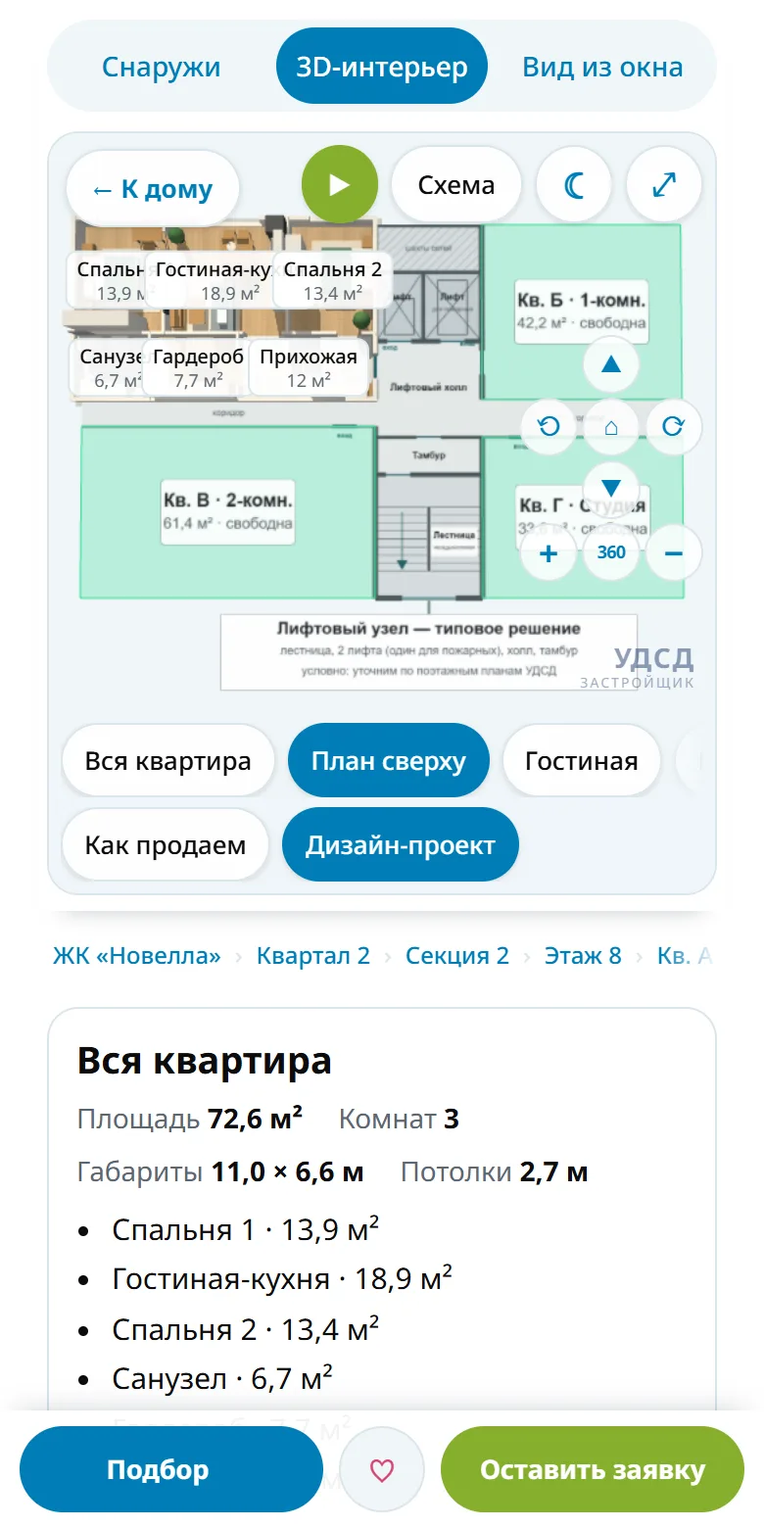
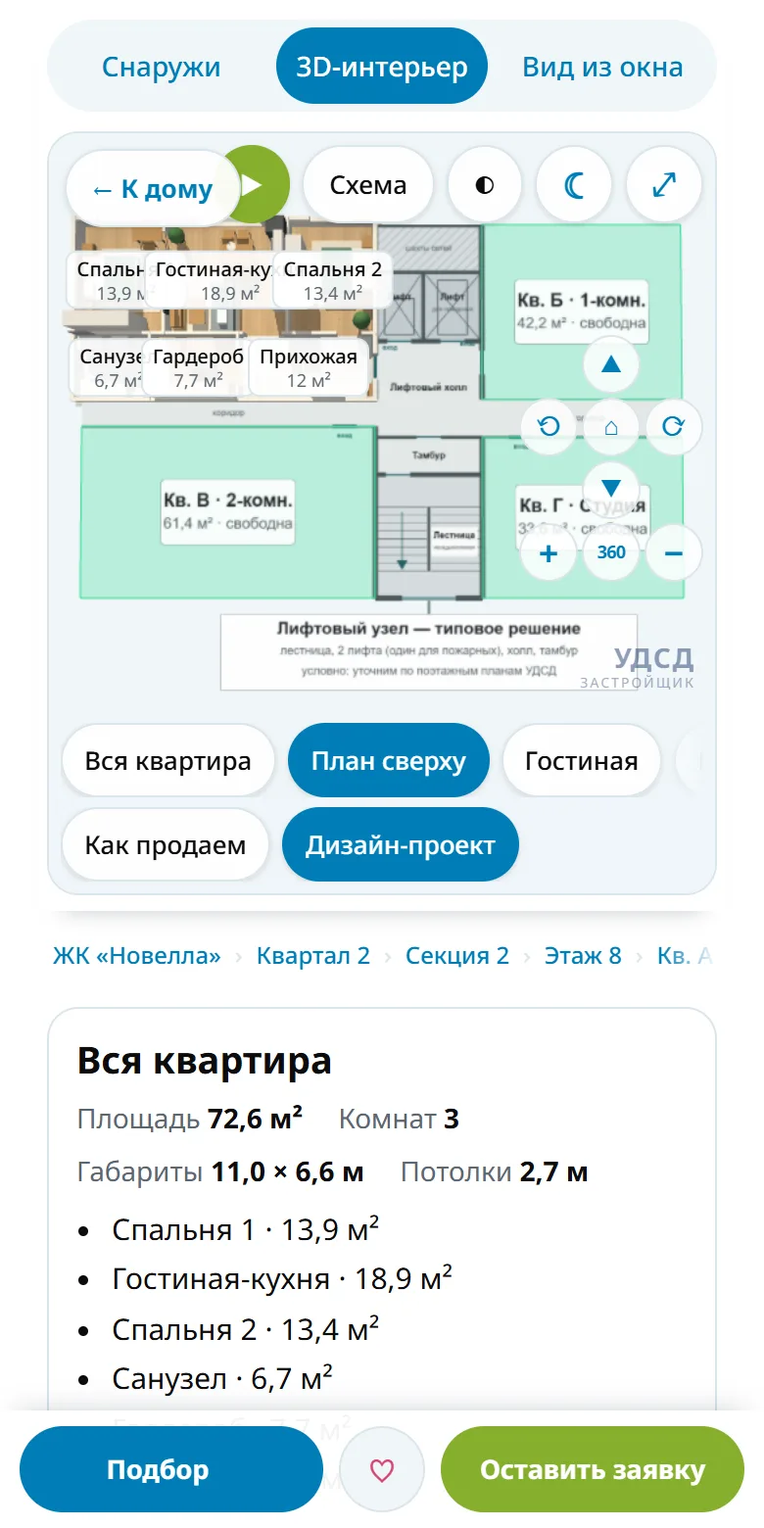
Настройки вида на 3D, разделы панели, плавная экскурсия, «Как продаем» сверху
Окно «Вид» на сцене: дом прозрачный/сплошной, свободные квартиры, наша квартира внутри, ракурс; в интерьере — камера, перегородки, стиль.
Боковая панель по разделам: квартира → «Выбрать квартиру» (изнутри — переход к подбору или к дому) → «Мои квартиры».
Смена режима и шаги экскурсии — с плавным затемнением, пролёты медленнее, шаг дольше; «Как продаем» — вся квартира сверху в предчистовой.

Changed region(s): [[0.2769, 0.0923, 0.5231, 0.1538], [0.5538, 0.0923, 0.6462, 0.1538]]

diff --git a/demo/index.html b/demo/index.html
@@ -301,7 +301,31 @@ body.pinned:not(.full) .stack{display:none}
   .compass{width:34px;height:34px}
   body.pinned:not(.full) .navpad{display:none}
 }
+/* smooth change of mode: the stage fades out and back in */
+.veil{position:absolute;inset:0;z-index:1;background:var(--stage);opacity:0;pointer-events:none;transition:opacity .45s ease}
+.veil.on{opacity:1}
+/* view settings panel on the stage */
+.viewbtn[aria-expanded="true"]{background:var(--acc);border-color:var(--acc);color:#fff}
+.vpanel{position:absolute;right:8px;top:56px;z-index:6;width:min(320px,calc(100% - 16px));max-height:calc(100% - var(--dockh) - 70px);overflow:auto;display:flex;flex-direction:column;gap:12px;background:color-mix(in srgb,var(--surf) 97%,transparent);border-radius:16px;padding:12px 14px;box-shadow:0 8px 26px rgba(0,0,0,.2)}
+.vpanel[hidden]{display:none}
+.vp-head{display:flex;align-items:center;justify-content:space-between}
+.vp-head b{font:700 16px var(--f-display)}
+.vp-head .icobtn{width:34px;height:34px;font-size:15px}
+.vgroup{display:flex;flex-direction:column;gap:12px}
+.vgroup[hidden]{display:none}
+.vpanel .chips{flex-wrap:wrap;overflow:visible;-webkit-mask-image:none;mask-image:none}
+.vpanel .chip{min-height:38px;padding:7px 12px;font-size:13.5px}
+@media (max-width:640px){.vpanel{left:6px;right:6px;width:auto;top:52px;padding:10px 12px;gap:10px}.vgroup{gap:9px}.vpanel .chip{min-height:34px;padding:5px 11px;font-size:13px}.vp-head b{font-size:15px}}
+/* side panel sections */
+.sect{display:flex;flex-direction:column;gap:12px;border-top:1px solid var(--line);padding-top:14px}
+.sect[hidden]{display:none}
+.sh{margin:0;font:700 13px var(--f-body);letter-spacing:.06em;text-transform:uppercase;color:var(--mut)}
+.other{background:var(--chip);border-radius:14px;padding:12px 14px;display:flex;flex-direction:column;gap:10px}
+.other p{margin:0;font-size:14px}
+.side[data-mode="int"] .pick,.side[data-mode="win"] .pick{display:none}
 /* guided tour */
+.tour.anim .tour-t,.tour.anim p{animation:tin .6s ease both}
+@keyframes tin{from{opacity:0;transform:translateY(6px)}to{opacity:1;transform:none}}
 .tourbtn{background:var(--green);border-color:var(--green);color:#fff;font-weight:700}
 @media (min-width:641px){.badge{max-width:calc(100% - 400px);white-space:nowrap;overflow:hidden;text-overflow:ellipsis}}
 @media (min-width:641px) and (max-width:1399px){.tourbtn .lg{display:none}}   /* the tool row would reach the location badge */
@@ -414,6 +438,22 @@ body.touring #dock,body.touring .hint,body.touring .badge,body.touring #tourBtn,
 
   <div class="stage" id="stage">
     <canvas id="cv" aria-label="3D-модель квартиры"></canvas>
+    <div class="veil" id="veil" aria-hidden="true"></div>
+    <!-- view settings right on the 3D: grouped by what they change, only those of the current mode -->
+    <div class="vpanel" id="vpanel" hidden role="dialog" aria-label="Настройки вида">
+      <div class="vp-head"><b>Настройки вида</b><button type="button" class="icobtn" id="vpClose" aria-label="Закрыть">✕</button></div>
+      <div class="vgroup" data-vm="ext">
+        <div class="row"><div class="lab">Выбранный дом</div><div class="chips" id="rHouse"></div></div>
+        <div class="row"><div class="lab">Свободные квартиры</div><div class="chips" id="rLayer"></div></div>
+        <div class="row" id="rowInner"><div class="lab">Наша квартира</div><div class="chips" id="rInner"></div></div>
+        <div class="row"><div class="lab">Ракурс камеры</div><div class="chips" id="rExtView"></div></div>
+      </div>
+      <div class="vgroup" data-vm="int">
+        <div class="row"><div class="lab">Камера</div><div class="chips" id="rCam"></div></div>
+        <div class="row" id="rowSee"><div class="lab">Перегородки</div><div class="chips" id="rSee"></div></div>
+        <div class="row" id="rowStyle"><div class="lab">Стиль дизайн-проекта</div><div class="chips" id="rStyle"></div></div>
+      </div>
+    </div>
     <div class="loader" id="loader" role="status"><i></i>Загружаем 3D-квартал…</div>
     <div class="logo" aria-label="УДСД">УДСД<small>ЗАСТРОЙЩИК</small></div>
     <div id="labels"></div>
@@ -424,6 +464,7 @@ body.touring #dock,body.touring .hint,body.touring .badge,body.touring #tourBtn,
       <button type="button" class="planbtn tourbtn" id="tourBtn" aria-label="Экскурсия по «Новелле»">▶<span class="lg"> Экскурсия</span></button>
       <button type="button" class="planbtn" id="planBtn"><span class="lg">Схема квартиры</span><span class="sm">Схема</span></button>
       <div class="chips tchips" id="rTime" role="group" aria-label="Освещение" hidden></div>
+      <button type="button" class="planbtn viewbtn" id="viewBtn" aria-expanded="false" aria-controls="vpanel" title="Настройки вида">◐<span class="lg"> Вид</span></button>
       <button type="button" class="icobtn" id="timeBtn" aria-label="Включить вечер" title="День / вечер">☾</button>
       <button type="button" class="icobtn" id="fullBtn" aria-label="Во весь экран" aria-pressed="false">⤢</button>
     </div>
@@ -481,6 +522,18 @@ body.touring #dock,body.touring .hint,body.touring .badge,body.touring #tourBtn,
   <nav class="crumbs chips" id="crumbs" aria-label="Где вы"></nav>
   <div class="card" id="card" aria-live="polite"></div>
 
+  <!-- choosing another apartment is its own section, apart from looking at this one -->
+  <section class="sect" id="sChoose" aria-labelledby="hChoose">
+  <h3 class="sh" id="hChoose">Выбрать квартиру</h3>
+  <div class="other" id="chooseOther" hidden>
+    <p>Сейчас вы смотрите квартиру А изнутри. Другие квартиры — на доме снаружи или в подборе.</p>
+    <div class="xbtns"><button type="button" class="chip pick-show" id="oPick">Подбор квартиры</button><button type="button" class="chip" id="oHouse">Выбрать на доме</button></div>
+  </div>
+  <div class="panel" id="pExt" hidden>
+    <div hidden><div class="chips" id="rAct"></div></div>
+    <div class="row"><div class="lab">Корпус</div><select id="selSec" class="sel" aria-label="Корпус"></select></div>
+    <div class="legend"><span><i class="st" style="background:#3ddc97"></i>свободна</span><span><i class="st" style="background:#f2b04a"></i>бронь</span><span><i class="st" style="background:#6b7780"></i>продана</span><span id="dataLab">примерные данные</span></div>
+  </div>
   <!-- apartment finder: on a computer always open in the side panel, on a phone a sheet that slides up from the bottom -->
   <section class="pick" id="pick" aria-label="Подбор квартиры">
     <div class="pick-head"><b>Подбор квартиры</b><span class="pick-count" id="pickCount"></span><button type="button" class="icobtn pick-close" id="pickClose" aria-label="Закрыть подбор">✕</button></div>
@@ -491,28 +544,13 @@ body.touring #dock,body.touring .hint,body.touring .badge,body.touring #tourBtn,
     <div class="pick-list" id="pickList"></div>
     <div class="pick-foot"><button type="button" class="chip" id="pickReset">Сбросить</button><button type="button" class="chip pick-show" id="pickShow">Показать на 3D</button></div>
   </section>
+  </section>
 
-  <div class="panel" id="pInt">
-    <div class="row"><div class="lab">Камера</div><div class="chips" id="rCam"></div></div>
-    <div class="row" id="rowSee"><div class="lab">Перегородки</div><div class="chips" id="rSee"></div></div>
-    <div class="row" id="rowStyle"><div class="lab">Стиль дизайн-проекта</div><div class="chips" id="rStyle"></div></div>
-  </div>
-  <div class="panel" id="pExt" hidden>
-    <div class="row"><div class="lab">Подробнее</div><div class="chips" id="rAct"></div></div>
-    <div class="row"><div class="lab">Корпус</div><select id="selSec" class="sel" aria-label="Корпус"></select></div>
-    <div class="legend"><span><i class="st" style="background:#3ddc97"></i>свободна</span><span><i class="st" style="background:#f2b04a"></i>бронь</span><span><i class="st" style="background:#6b7780"></i>продана</span><span id="dataLab">примерные данные</span></div>
-    <div class="row"><div class="lab">Ракурс</div><div class="chips" id="rExtView"></div></div>
-    <!-- rarely needed: folded on phones (opened on wide screens at start) -->
-    <details class="more" id="moreExt" open>
-      <summary>Ещё настройки</summary>
-      <div class="row"><div class="lab">Подсветка корпусов</div><div class="chips" id="rLayer"></div></div>
-      <div class="row"><div class="lab">Дом</div><div class="chips" id="rHouse"></div></div>
-      <div class="row" id="rowInner"><div class="lab">Квартира</div><div class="chips" id="rInner"></div></div>
-    </details>
-  </div>
-
+  <section class="sect" id="sMine" aria-labelledby="hMine" hidden>
+  <h3 class="sh" id="hMine">Мои квартиры</h3>
   <div class="row" id="rowFav" hidden><div class="lab">Избранное</div><div class="chips" id="rFav"></div></div>
   <div class="row" id="rowRecent" hidden><div class="lab">Недавно смотрели</div><div class="chips" id="rRecent"></div></div>
+  </section>
 
   <p class="note" id="note"></p>
   </aside>
@@ -1530,7 +1568,7 @@ body.touring #dock,body.touring .hint,body.touring .badge,body.touring #tourBtn,
     controls.minDistance = 0; controls.maxDistance = 100; controls.maxPolarAngle = Math.PI;
     const to = { pos: new THREE.Vector3(...pos), tgt: new THREE.Vector3(...tgt) };
     if (instant) { camera.position.copy(to.pos); controls.target.copy(to.tgt); limits(); }
-    else anim = { t0: performance.now(), dur: document.body.classList.contains('touring') ? 1800 : 900, p0: camera.position.clone(), g0: controls.target.clone(), to: to };
+    else anim = { t0: performance.now(), dur: document.body.classList.contains('touring') ? 2800 : 1100, p0: camera.position.clone(), g0: controls.target.clone(), to: to };
   }
   function ease(t) { return t < 0.5 ? 4 * t * t * t : 1 - Math.pow(-2 * t + 2, 3) / 2; }
 
@@ -1674,7 +1712,8 @@ body.touring #dock,body.touring .hint,body.touring .badge,body.touring #tourBtn,
     sync.push(() => b.setAttribute('aria-pressed', test() ? 'true' : 'false')); return b;
   }
   const chips = {};
-  chip($('rFinish'), 'Как продаем (предчистовая)', () => S.finish === 'bare', () => { S.finish = 'bare'; refresh(); }, { short: 'Как продаем' });
+  // «Как продаем» shows the whole flat from above in pre-finish (as it is handed over), with a smooth flight from wherever the camera is
+  chip($('rFinish'), 'Как продаем (предчистовая)', () => S.finish === 'bare', () => { S.finish = 'bare'; if (S.mode === 'int' && (S.cam === 'walk' || S.view !== 'overview')) { S.cam = 'top'; S.view = 'overview'; enterInterior(false); } refresh(); }, { short: 'Как продаем' });
   chip($('rFinish'), 'Дизайн-проект', () => S.finish === 'design', () => { S.finish = 'design'; refresh(); });
   Object.keys(VIEWS).forEach((k) => chip($('rView'), VIEWS[k].label, () => S.view === k, () => { S.view = k; if (VIEWS[k].out) S.cam = 'top'; enterInterior(false); refresh(true); }));
   chip($('rCam'), 'Сверху, стены срезаны', () => S.cam === 'top', () => { S.cam = 'top'; enterInterior(false); refresh(true); }, { short: 'Сверху' });
@@ -1912,7 +1951,7 @@ body.touring #dock,body.touring .hint,body.touring .badge,body.touring #tourBtn,
   }
   const openPick = () => { document.body.classList.add('picking'); $('scrim').hidden = false; };
   const closePick = () => { document.body.classList.remove('picking'); $('scrim').hidden = true; };
-  $('mPick').addEventListener('click', openPick); $('pickClose').addEventListener('click', closePick); $('scrim').addEventListener('click', closePick);
+  $('mPick').addEventListener('click', () => (S.mode === 'ext' ? openPick() : chooseOther(true))); $('pickClose').addEventListener('click', closePick); $('scrim').addEventListener('click', closePick);
 
   // where you are: ЖК › квартал › секция › этаж › квартира (› интерьер / вид из окна); each level flies the camera there
   function renderCrumbs() {
@@ -2125,7 +2164,24 @@ body.touring #dock,body.touring .hint,body.touring .badge,body.touring #tourBtn,
     }
     const cur = stackEl.querySelector('[aria-pressed="true"]'); if (cur) cur.scrollIntoView({ block: 'nearest' });
   }
-  $('backHouse').addEventListener('click', () => { S.sec = towerSec.i; S.apt = 'a'; S.floor = 8; S.extView = 'floor'; S.aptOpen = true; S.inner = false; enterExt(false); refresh(true); });
+  $('backHouse').addEventListener('click', () => swap(() => { S.sec = towerSec.i; S.apt = 'a'; S.floor = 8; S.extView = 'house'; S.aptOpen = true; S.inner = false; enterExt(true); refresh(true); }));
+  // a change of mode fades the stage out and back in, so the jump from outside to inside reads as one move
+  let swapT = 0;
+  function swap(fn, ms) {
+    const v = $('veil'); clearTimeout(swapT); v.classList.add('on');
+    swapT = setTimeout(() => { fn(); wake(); requestAnimationFrame(() => requestAnimationFrame(() => v.classList.remove('on'))); }, ms || 380);
+  }
+  // view settings on the 3D
+  function setVP(on) { const p = $('vpanel'); p.hidden = !on; $('viewBtn').setAttribute('aria-expanded', on ? 'true' : 'false'); }
+  $('viewBtn').addEventListener('click', () => setVP($('vpanel').hidden));
+  $('vpClose').addEventListener('click', () => setVP(false));
+  cv.addEventListener('pointerdown', () => setVP(false), { passive: true });
+  document.addEventListener('keydown', (e) => { if (e.key === 'Escape') setVP(false); });
+  // looking at a flat inside: choosing another one goes outside, to the building or to the finder
+  function chooseOther(pick) {
+    swap(() => { S.sec = towerSec.i; S.apt = 'a'; S.floor = 8; S.extView = 'house'; S.aptOpen = false; S.inner = false; enterExt(true); refresh(true); if (pick) { openPick(); if (!narrow()) $('pick').scrollIntoView({ behavior: 'smooth', block: 'start' }); } });
+  }
+  $('oPick').addEventListener('click', () => chooseOther(true)); $('oHouse').addEventListener('click', () => chooseOther(false));
   sync.push(() => { $('backHouse').hidden = S.mode === 'ext'; renderStack(); });
 
   computeMatches();
@@ -2158,8 +2214,8 @@ body.touring #dock,body.touring .hint,body.touring .badge,body.touring #tourBtn,
   }
   addEventListener('scroll', checkPin, { passive: true }); addEventListener('resize', checkPin);
   document.addEventListener('keydown', (e) => { if (e.key === 'Escape' && document.body.classList.contains('full') && sheetEl.hidden) setFull(false); });
-  $('tInt').addEventListener('click', () => { if (S.mode === 'ext' && !isOwn()) { devDlg('int'); return; } if (S.mode !== 'int') { enterInterior(true); refresh(true); } });
-  $('tWin').addEventListener('click', () => { if (S.mode === 'ext' && !isOwn()) { devDlg('win'); return; } if (S.mode !== 'win') { enterWindow(); refresh(true); } });
+  $('tInt').addEventListener('click', () => { if (S.mode === 'ext' && !isOwn()) { devDlg('int'); return; } if (S.mode !== 'int') swap(() => { enterInterior(true); refresh(true); }); });
+  $('tWin').addEventListener('click', () => { if (S.mode === 'ext' && !isOwn()) { devDlg('win'); return; } if (S.mode !== 'win') swap(() => { enterWindow(); refresh(true); }); });
   // 3D inside and the window view exist only for apartment A (quarter 2, section 2, floor 8): for any other flat say so and offer A
   function devDlg(mode) {
     const t = TYPES[S.apt], sec = SECTIONS[S.sec];
@@ -2171,7 +2227,8 @@ body.touring #dock,body.touring .hint,body.touring .badge,body.touring #tourBtn,
   /* ---------- guided tour: city → complex → finder → our building → floor → interior → pre-finish → window, day and evening ----------
      (after the stadium demo by By Omid: one continuous journey with camera flights, pause / steps / exit; touching the 3D pauses it) */
   const tourOwn = () => { S.sec = towerSec.i; S.apt = 'a'; S.floor = 8; S.inner = false; };
-  const tourInt = (view, cam, finish) => { tourOwn(); S.view = view; S.cam = cam; S.finish = finish; S.time = 'day'; placeOutside(); enterInterior(true); refresh(true); };
+  // inside to inside the camera flies; coming from outside the move happens under the fade
+  const tourInt = (view, cam, finish) => { const inInt = S.mode === 'int'; tourOwn(); S.view = view; S.cam = cam; S.finish = finish; S.time = 'day'; placeOutside(); enterInterior(!inInt); refresh(true); };
   const tourNoFilter = () => { if (fltOn()) { FLT.rooms.clear(); FLT.price = Infinity; FLT.floor = 'any'; FLT.free = true; fPrice.value = pMax; $('fFree').checked = true; computeMatches(); cellsKey = ''; } };
   const TOUR = [
     { t: 'Новый Уренгой', d: '«Новелла» — в северной части города, мкр. Уютный. Микрорайоны, реки и дороги — по OpenStreetMap.', go: () => { tourNoFilter(); tourOwn(); S.time = 'day'; goExt('city'); } },
@@ -2180,15 +2237,16 @@ body.touring #dock,body.touring .hint,body.touring .badge,body.touring #tourBtn,
     { t: 'Подбор', d: 'Выбраны 3-комнатные: подходящие корпуса подсвечены, на каждом — сколько подходит.', go: () => { FLT.rooms = new Set([3]); onFilter(); goExt('all'); } },
     { t: 'Ваш дом', d: 'Квартал 2, секция 2 целиком. Слева — этажи: точки показывают, сколько квартир свободно на каждом.', go: () => { tourNoFilter(); tourOwn(); S.aptOpen = false; goExt('house'); } },
     { t: 'Этаж в разрезе', d: 'Дом срезан по 8 этажу: квартиры по статусам, лифты и лестница, у нашей А видна мебель. Нажмите на квартиру — откроется карточка.', go: () => { tourOwn(); S.aptOpen = false; goExt('floor'); } },
-    { t: 'План этажа', d: 'Соседи по площадке со статусами, лифты, холл и лестница (типовое решение до планов застройщика).', go: () => tourInt('top', 'top', 'design') },
-    { t: '3D-интерьер', d: 'Вся квартира сверху, стены срезаны: дизайн-проект и площадь каждой комнаты.', go: () => tourInt('overview', 'top', 'design') },
-    { t: '«Как продаем»', d: 'Предчистовая отделка по стандарту УДСД — вид с уровня глаз из гостиной.', go: () => tourInt('living', 'walk', 'bare') },
-    { t: 'Вид из окна', d: 'Из гостиной с 8 этажа: что видно днём.', go: () => { tourOwn(); S.finish = 'design'; S.win = 'living'; S.time = 'day'; enterWindow(); refresh(true); } },
-    { t: 'Вечером', d: 'В окнах соседних домов горит свет, во дворах — фонари.', go: () => { S.time = 'eve'; refresh(); } },
-    { t: 'Выбор за вами', d: 'Сердечко — в избранное, «Оставить заявку» — менеджер перезвонит. Дальше управляйте сами.', go: () => { S.time = 'day'; tourOwn(); goExt('yard'); } }
+    { t: 'План этажа', m: 'int', d: 'Соседи по площадке со статусами, лифты, холл и лестница (типовое решение до планов застройщика).', go: () => tourInt('top', 'top', 'design') },
+    { t: '3D-интерьер', m: 'int', d: 'Вся квартира сверху, стены срезаны: дизайн-проект и площадь каждой комнаты.', go: () => tourInt('overview', 'top', 'design') },
+    { t: '«Как продаем»', m: 'int', fade: true, d: 'Та же квартира сверху в предчистовой отделке по стандарту УДСД: стяжка, стены под покраску, окна и двери, без мебели.', go: () => tourInt('overview', 'top', 'bare') },
+    { t: 'Вид из окна', m: 'win', d: 'Из гостиной с 8 этажа: что видно днём.', go: () => { tourOwn(); S.finish = 'design'; S.win = 'living'; S.time = 'day'; enterWindow(); refresh(true); } },
+    { t: 'Вечером', m: 'win', fade: true, d: 'В окнах соседних домов горит свет, во дворах — фонари.', go: () => { S.time = 'eve'; refresh(); } },
+    { t: 'Выбор за вами', m: 'ext', d: 'Сердечко — в избранное, «Оставить заявку» — менеджер перезвонит. Дальше управляйте сами.', go: () => { S.time = 'day'; tourOwn(); S.aptOpen = true; goExt('house'); } }
   ];
-  const tourEl = $('tour'), tour = { i: -1, playing: false, timer: 0, full: false };
-  const TOUR_MS = 6500;
+  TOUR.forEach((s) => { if (!s.m) s.m = 'ext'; });
+  const tourEl = $('tour'), tour = { i: -1, playing: false, timer: 0, fadeT: 0, full: false };
+  const TOUR_MS = 9000;   // a step: ~2.8 s of flight, then time to read and look
   for (let k = 0; k < TOUR.length; k++) $('tourDots').appendChild(document.createElement('i'));
   function tourRender() {
     const st = TOUR[tour.i]; $('tourT').textContent = st.t; $('tourN').textContent = (tour.i + 1) + ' из ' + TOUR.length;
@@ -2198,10 +2256,18 @@ body.touring #dock,body.touring .hint,body.touring .badge,body.touring #tourBtn,
     $('tourPrev').disabled = tour.i === 0;
     stageEl.style.setProperty('--dockh', '0px'); updateFov();
   }
+  // each step: a change of mode (or of finish / light) fades the stage out and in; within a mode the camera flies slowly.
+  // The text panel changes with a short fade too, and the next step waits until this one has been seen.
   function tourGo(i) {
-    clearTimeout(tour.timer); tour.i = Math.max(0, Math.min(TOUR.length - 1, i));
-    TOUR[tour.i].go(); tourRender();
-    if (tour.playing) tour.timer = setTimeout(() => { if (tour.i + 1 < TOUR.length) tourGo(tour.i + 1); else { tour.playing = false; tourRender(); } }, TOUR_MS);
+    clearTimeout(tour.timer); clearTimeout(tour.fadeT); tour.i = Math.max(0, Math.min(TOUR.length - 1, i));
+    const st = TOUR[tour.i], v = $('veil'), fade = st.fade || st.m !== S.mode;
+    const run = () => {
+      st.go(); tourRender();
+      tourEl.classList.remove('anim'); void tourEl.offsetWidth; tourEl.classList.add('anim');
+      requestAnimationFrame(() => requestAnimationFrame(() => v.classList.remove('on')));
+      if (tour.playing) tour.timer = setTimeout(() => { if (tour.i + 1 < TOUR.length) tourGo(tour.i + 1); else { tour.playing = false; tourRender(); } }, TOUR_MS);
+    };
+    if (fade) { v.classList.add('on'); tour.fadeT = setTimeout(run, 480); } else run();
   }
   function tourStart() {
     closePick(); $('lead').hidden = $('dev').hidden = true; sheetEl.hidden = true;
@@ -2224,7 +2290,7 @@ body.touring #dock,body.touring .hint,body.touring .badge,body.touring #tourBtn,
   $('devClose').addEventListener('click', () => { $('dev').hidden = true; });
   $('dev').addEventListener('click', (e) => { if (e.target.id === 'dev') $('dev').hidden = true; });
   sync.push(() => { const dev = S.mode === 'ext' && !isOwn(); ['tInt', 'tWin'].forEach((id) => { $(id).classList.toggle('dev', dev); $(id).title = dev ? 'Для этой квартиры — в разработке' : ''; }); });
-  $('tExt').addEventListener('click', () => { if (S.mode !== 'ext') { S.sec = towerSec.i; S.apt = 'a'; S.inner = false; S.extView = 'house'; S.aptOpen = false; enterExt(true); refresh(true); } });
+  $('tExt').addEventListener('click', () => { if (S.mode !== 'ext') swap(() => { S.sec = towerSec.i; S.apt = 'a'; S.inner = false; S.extView = 'house'; S.aptOpen = false; enterExt(true); refresh(true); }); });
 
   ROOMS.forEach((r) => {
     const b = document.createElement('button'); b.type = 'button'; b.className = 'rl';
@@ -2408,7 +2474,10 @@ body.touring #dock,body.touring .hint,body.touring .badge,body.touring #tourBtn,
     if (lastMode && lastMode !== S.mode && narrow() && scrollY > 0) scrollTo({ top: 0, behavior: 'smooth' });
     lastMode = S.mode;
     wake(); renderer.shadowMap.needsUpdate = true;
-    $('pInt').hidden = S.mode !== 'int'; $('pExt').hidden = S.mode !== 'ext';
+    $('pExt').hidden = S.mode !== 'ext'; $('chooseOther').hidden = S.mode === 'ext'; $('side').dataset.mode = S.mode;
+    $('sMine').hidden = !favs.length && recents.length < 2;
+    $('vpanel').querySelectorAll('[data-vm]').forEach((g) => { g.hidden = g.dataset.vm !== S.mode; });
+    $('viewBtn').hidden = S.mode === 'win'; if (S.mode === 'win') setVP(false);
     dockEl.querySelectorAll('[data-m]').forEach((r) => { r.hidden = r.dataset.m.split(' ').indexOf(S.mode) < 0; });
     stageEl.dataset.mode = S.mode;
     stageEl.style.setProperty('--dockh', dockEl.offsetHeight + 'px'); updateFov();
@@ -2691,8 +2760,6 @@ body.touring #dock,body.touring .hint,body.touring .badge,body.touring #tourBtn,
   // without a link the demo opens on our apartment A in 3D: it is the only one drawn inside (the others say «в разработке»)
   if (Q.get('mode') === 'ext') { enterExt(true); refresh(true); }
   else { S.sec = towerSec.i; S.apt = 'a'; if (!(qF >= 2 && qF <= 12)) S.floor = 8; placeOutside(); if (Q.get('mode') === 'win') enterWindow(); else enterInterior(true); refresh(true); }
-  if (narrow()) $('moreExt').open = false;   // phones: rare settings folded, so the card and the main rows stay close to the 3D
-  $('moreExt').addEventListener('toggle', () => document.querySelectorAll('.chips').forEach(fades));
   if (Q.get('tour')) setTimeout(tourStart, 700);   // ?tour=1 — opens straight into the guided tour (sales office screen, the proposal page)
   requestAnimationFrame(frame);
   window.__nv = { S: S, walk: walk, startWalk: startWalk, enterWindow: enterWindow, enterInterior: enterInterior, refresh: refresh, camera: camera, describe: describe, data: DATA_OK ? 'json' : 'generated' };

diff --git a/index.html b/index.html
@@ -232,8 +232,8 @@ footer{border-top:1px solid var(--line);padding:32px 0 40px;margin-top:20px}
         <b><span>03</span>Весь город</b><p>Микрорайоны, части города, реки и дороги — где дом относительно всего.</p></li>
       <li><div class="phone"><img src="img/mock-design.webp" width="780" height="1560" loading="lazy" alt="Трёхкомнатная квартира сверху со срезанными стенами, мебель дизайн-проекта и площади комнат"></div>
         <b><span>04</span>3D-интерьер с дизайном</b><p>Вся квартира сверху, стены срезаны. Площадь каждой комнаты.</p></li>
-      <li><div class="phone"><img src="img/mock-bare.webp" width="780" height="1560" loading="lazy" alt="Гостиная в предчистовой отделке с уровня глаз, мини-карта квартиры"></div>
-        <b><span>05</span>«Как продаем»</b><p>Предчистовая отделка с уровня глаз. Прогулка касанием по полу.</p></li>
+      <li><div class="phone"><img src="img/mock-bare.webp" width="780" height="1560" loading="lazy" alt="Вся квартира сверху в предчистовой отделке: стяжка, стены под покраску, без мебели"></div>
+        <b><span>05</span>«Как продаем»</b><p>Вся квартира сверху в предчистовой отделке — как её передают покупателю.</p></li>
       <li><div class="phone"><img src="img/mock-plan.webp" width="780" height="1560" loading="lazy" alt="План этажа сверху: квартира, соседние квартиры со статусами, лифты, холл и лестница"></div>
         <b><span>06</span>План этажа</b><p>Соседи по площадке со статусами, лифты, холл и лестница.</p></li>
       <li><div class="phone"><img src="img/mock-window.webp" width="780" height="1560" loading="lazy" alt="Вид из окна гостиной с 8 этажа на соседние дома"></div>

diff --git a/tools/mockups.js b/tools/mockups.js
@@ -17,7 +17,7 @@ const SHOTS = [
   ['mock-facade', async (p) => { await p.click('#tExt'); await p.waitForTimeout(1500); await p.evaluate(() => [...document.querySelectorAll('#stack button')].find((b) => b.textContent.trim().startsWith('8')).click()); }],
   ['mock-city', async (p) => { await p.click('#tExt'); await p.waitForTimeout(1200); await p.evaluate(chip, ['#rExtView', 'Весь город']); }],
   ['mock-design', async (p) => { await p.click('#tInt'); }],
-  ['mock-bare', async (p) => { await p.click('#tInt'); await p.waitForTimeout(800); await p.evaluate(chip, ['#rFinish', 'Как продаем']); await p.evaluate(chip, ['#rView', 'Гостиная']); await p.evaluate(chip, ['#rCam', 'Хожу']); }],
+  ['mock-bare', async (p) => { await p.click('#tInt'); await p.waitForTimeout(800); await p.evaluate(chip, ['#rFinish', 'Как продаем']); }],
   ['mock-plan', async (p) => { await p.click('#tInt'); await p.waitForTimeout(800); await p.evaluate(chip, ['#rView', 'План сверху']); }],
   ['mock-window', async (p) => { await p.click('#tWin'); }]
 ];

diff --git a/CLAUDE.md b/CLAUDE.md
@@ -57,3 +57,4 @@
 - Управление камерой: колесо/щипок тачпада приближает к точке под курсором (`zoomAbout`), двойной щелчок — подлёт, центр орбиты не уходит за сцену (`keepOver`), вращение спокойнее (`rotateSpeed` 0,7/0,5), сдвиг по земле; кнопки `#navpad` справа на сцене: + − ⟲ ⟳ ⌂ (на телефоне без поворотов); подсказка разная для мыши и пальцев.
 - Путь выбора «Снаружи» (по образцу Jomi Studio «Ёсуман», 28.10.2026): **Дом** (`extView:'house'`, колонка этажей `#stack` слева со статусными точками, наведение — светлая полоса этажа `band`, карточка-сводка) → **Этаж** (`extView:'floor'`, `goFloor`: секция и её крыша `sec.gab` скрыты, ниже этажа — простой блок, квартиры этажа — плиты по статусам `floorG` с номерами-кнопками `.gl.aptl`; у нашей секции вместо плит — модель интерьера А, соседи `nbG` и лифтовый узел `coreM`, камера со стороны улицы) → **Квартира** (`S.aptOpen`, `openApt`: карточка с планом, плитками, ценой, «Прогулка в 3D», «Вид из окна», «← Этаж N») → **Прогулка** (кнопка `#backHouse` «← К дому»). Кнопка 360° — автоповорот. Ряды квартир/этажей в доке в «Снаружи» убраны (их заменили колонка и карточка). Класс `sel` занят стилем select — не использовать для других элементов.
 - Навигация кнопками (28.10.2026, жалоба «мало окно, много кнопок, дом в коробку, непонятно что вдали»): сцена `calc(100svh - 130px)`; в «Снаружи» внизу ряд шагов `#rSteps` (Город · Район · ЖК · Дом · Этаж · Квартира), справа крестовина `#navpad` (▲▼ наклон `navTilt`, ⟲⟳, ⌂, + −, 360), слева вверху `#where`: компас (нажатие — север вверх, север = `CITY.rot`) и план комплекса `#cmap` с клином камеры (нажатие на дом — выбрать). Подсказки управления над 3D сняты, плашка места — только в виде из окна, «День/Вечер» — одна кнопка. Выбор квартиры **не режет дом** (`selectApt` остаётся на «Весь дом» с подсветкой и карточкой); «Этаж в разрезе» — по кнопке: нижние этажи с настоящим фасадом, верхние — стекло. Дальние места `FAR` (микрорайоны, части города, ближайшая точка рек) — подписи с расстоянием, за кадром — у края со стрелкой. В КП iframe демо шире колонки (до 1480px, 92vh).
+- Настройки вида — окно `#vpanel` на сцене (кнопка «◐ Вид»): в «Снаружи» дом прозрачный/сплошной, свободные вкл/выкл, наша квартира цветом/внутри, ракурс; в интерьере камера, перегородки, стиль; группы `[data-vm]` по режиму. Боковая панель по разделам: карточка → «Выбрать квартиру» (`#sChoose`: снаружи — корпус, легенда, подбор; изнутри — блок `#chooseOther` «Подбор квартиры / Выбрать на доме» → `chooseOther()`) → «Мои квартиры» (избранное, недавно). Смена режима (вкладки, «К дому») — затемнение сцены `swap()` с `#veil`. Экскурсия: у шагов `m` (режим) и `fade`; при смене режима — затемнение 0,48 с, пролёты 2,8 с, шаг 9 с; «Как продаем» — вся квартира сверху в предчистовой (кнопка «Как продаем» тоже переводит в вид сверху).
